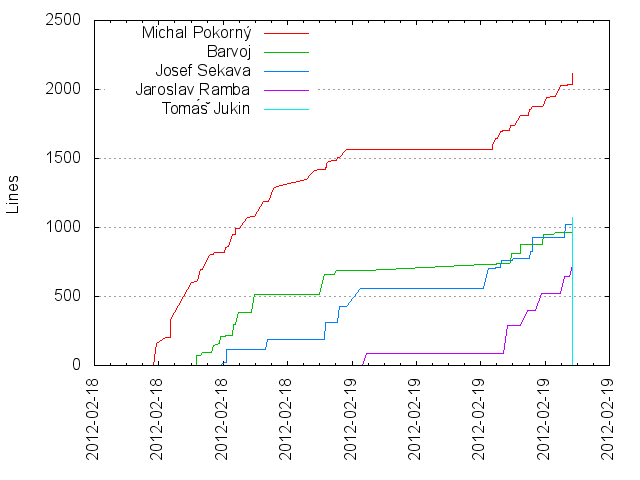
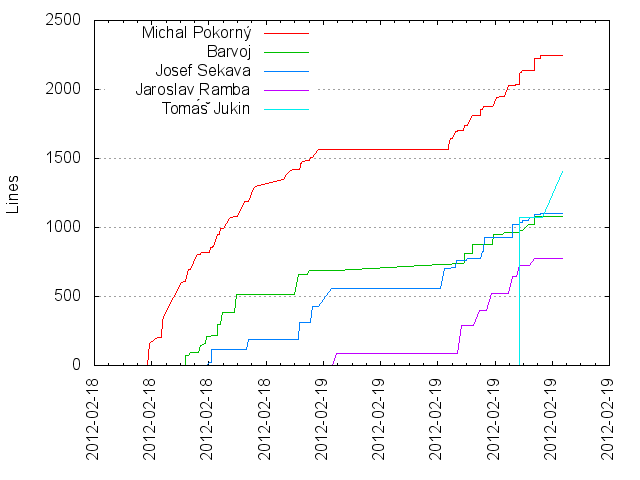
Generated git repository statistics

diff --git a/GADCPrague_stats/activity.html b/GADCPrague_stats/activity.html
@@ -4,7 +4,7 @@
 <head>
 	<title>GitStats - DoIKnowYou</title>
 	<link rel="stylesheet" href="gitstats.css" type="text/css" />
-	<meta name="generator" content="GitStats 648edf0" />
+	<meta name="generator" content="GitStats f08863a" />
 	<script type="text/javascript" src="sortable.js"></script>
 </head>
 <body>
@@ -22,27 +22,27 @@
 
 <h2><a href="#weekly_activity" name="weekly_activity">Weekly activity</a></h2>
 
-<p>Last 32 weeks</p><table class="noborders"><tr><td style="text-align: center; vertical-align: bottom">0<div style="display: block; background-color: red; width: 20px; height: 1px"></div></td><td style="text-align: center; vertical-align: bottom">0<div style="display: block; background-color: red; width: 20px; height: 1px"></div></td><td style="text-align: center; vertical-align: bottom">0<div style="display: block; background-color: red; width: 20px; height: 1px"></div></td><td style="text-align: center; vertical-align: bottom">0<div style="display: block; background-color: red; width: 20px; height: 1px"></div></td><td style="text-align: center; vertical-align: bottom">0<div style="display: block; background-color: red; width: 20px; height: 1px"></div></td><td style="text-align: center; vertical-align: bottom">0<div style="display: block; background-color: red; width: 20px; height: 1px"></div></td><td style="text-align: center; vertical-align: bottom">0<div style="display: block; background-color: red; width: 20px; height: 1px"></div></td><td style="text-align: center; vertical-align: bottom">0<div style="display: block; background-color: red; width: 20px; height: 1px"></div></td><td style="text-align: center; vertical-align: bottom">0<div style="display: block; background-color: red; width: 20px; height: 1px"></div></td><td style="text-align: center; vertical-align: bottom">0<div style="display: block; background-color: red; width: 20px; height: 1px"></div></td><td style="text-align: center; vertical-align: bottom">0<div style="display: block; background-color: red; width: 20px; height: 1px"></div></td><td style="text-align: center; vertical-align: bottom">0<div style="display: block; background-color: red; width: 20px; height: 1px"></div></td><td style="text-align: center; vertical-align: bottom">0<div style="display: block; background-color: red; width: 20px; height: 1px"></div></td><td style="text-align: center; vertical-align: bottom">0<div style="display: block; background-color: red; width: 20px; height: 1px"></div></td><td style="text-align: center; vertical-align: bottom">0<div style="display: block; background-color: red; width: 20px; height: 1px"></div></td><td style="text-align: center; vertical-align: bottom">0<div style="display: block; background-color: red; width: 20px; height: 1px"></div></td><td style="text-align: center; vertical-align: bottom">0<div style="display: block; background-color: red; width: 20px; height: 1px"></div></td><td style="text-align: center; vertical-align: bottom">0<div style="display: block; background-color: red; width: 20px; height: 1px"></div></td><td style="text-align: center; vertical-align: bottom">0<div style="display: block; background-color: red; width: 20px; height: 1px"></div></td><td style="text-align: center; vertical-align: bottom">0<div style="display: block; background-color: red; width: 20px; height: 1px"></div></td><td style="text-align: center; vertical-align: bottom">0<div style="display: block; background-color: red; width: 20px; height: 1px"></div></td><td style="text-align: center; vertical-align: bottom">0<div style="display: block; background-color: red; width: 20px; height: 1px"></div></td><td style="text-align: center; vertical-align: bottom">0<div style="display: block; background-color: red; width: 20px; height: 1px"></div></td><td style="text-align: center; vertical-align: bottom">0<div style="display: block; background-color: red; width: 20px; height: 1px"></div></td><td style="text-align: center; vertical-align: bottom">0<div style="display: block; background-color: red; width: 20px; height: 1px"></div></td><td style="text-align: center; vertical-align: bottom">0<div style="display: block; background-color: red; width: 20px; height: 1px"></div></td><td style="text-align: center; vertical-align: bottom">0<div style="display: block; background-color: red; width: 20px; height: 1px"></div></td><td style="text-align: center; vertical-align: bottom">0<div style="display: block; background-color: red; width: 20px; height: 1px"></div></td><td style="text-align: center; vertical-align: bottom">0<div style="display: block; background-color: red; width: 20px; height: 1px"></div></td><td style="text-align: center; vertical-align: bottom">0<div style="display: block; background-color: red; width: 20px; height: 1px"></div></td><td style="text-align: center; vertical-align: bottom">0<div style="display: block; background-color: red; width: 20px; height: 1px"></div></td><td style="text-align: center; vertical-align: bottom">171<div style="display: block; background-color: red; width: 20px; height: 200px"></div></td></tr><tr><td>32</td><td>31</td><td>30</td><td>29</td><td>28</td><td>27</td><td>26</td><td>25</td><td>24</td><td>23</td><td>22</td><td>21</td><td>20</td><td>19</td><td>18</td><td>17</td><td>16</td><td>15</td><td>14</td><td>13</td><td>12</td><td>11</td><td>10</td><td>9</td><td>8</td><td>7</td><td>6</td><td>5</td><td>4</td><td>3</td><td>2</td><td>1</td></tr></table>
+<p>Last 32 weeks</p><table class="noborders"><tr><td style="text-align: center; vertical-align: bottom">0<div style="display: block; background-color: red; width: 20px; height: 1px"></div></td><td style="text-align: center; vertical-align: bottom">0<div style="display: block; background-color: red; width: 20px; height: 1px"></div></td><td style="text-align: center; vertical-align: bottom">0<div style="display: block; background-color: red; width: 20px; height: 1px"></div></td><td style="text-align: center; vertical-align: bottom">0<div style="display: block; background-color: red; width: 20px; height: 1px"></div></td><td style="text-align: center; vertical-align: bottom">0<div style="display: block; background-color: red; width: 20px; height: 1px"></div></td><td style="text-align: center; vertical-align: bottom">0<div style="display: block; background-color: red; width: 20px; height: 1px"></div></td><td style="text-align: center; vertical-align: bottom">0<div style="display: block; background-color: red; width: 20px; height: 1px"></div></td><td style="text-align: center; vertical-align: bottom">0<div style="display: block; background-color: red; width: 20px; height: 1px"></div></td><td style="text-align: center; vertical-align: bottom">0<div style="display: block; background-color: red; width: 20px; height: 1px"></div></td><td style="text-align: center; vertical-align: bottom">0<div style="display: block; background-color: red; width: 20px; height: 1px"></div></td><td style="text-align: center; vertical-align: bottom">0<div style="display: block; background-color: red; width: 20px; height: 1px"></div></td><td style="text-align: center; vertical-align: bottom">0<div style="display: block; background-color: red; width: 20px; height: 1px"></div></td><td style="text-align: center; vertical-align: bottom">0<div style="display: block; background-color: red; width: 20px; height: 1px"></div></td><td style="text-align: center; vertical-align: bottom">0<div style="display: block; background-color: red; width: 20px; height: 1px"></div></td><td style="text-align: center; vertical-align: bottom">0<div style="display: block; background-color: red; width: 20px; height: 1px"></div></td><td style="text-align: center; vertical-align: bottom">0<div style="display: block; background-color: red; width: 20px; height: 1px"></div></td><td style="text-align: center; vertical-align: bottom">0<div style="display: block; background-color: red; width: 20px; height: 1px"></div></td><td style="text-align: center; vertical-align: bottom">0<div style="display: block; background-color: red; width: 20px; height: 1px"></div></td><td style="text-align: center; vertical-align: bottom">0<div style="display: block; background-color: red; width: 20px; height: 1px"></div></td><td style="text-align: center; vertical-align: bottom">0<div style="display: block; background-color: red; width: 20px; height: 1px"></div></td><td style="text-align: center; vertical-align: bottom">0<div style="display: block; background-color: red; width: 20px; height: 1px"></div></td><td style="text-align: center; vertical-align: bottom">0<div style="display: block; background-color: red; width: 20px; height: 1px"></div></td><td style="text-align: center; vertical-align: bottom">0<div style="display: block; background-color: red; width: 20px; height: 1px"></div></td><td style="text-align: center; vertical-align: bottom">0<div style="display: block; background-color: red; width: 20px; height: 1px"></div></td><td style="text-align: center; vertical-align: bottom">0<div style="display: block; background-color: red; width: 20px; height: 1px"></div></td><td style="text-align: center; vertical-align: bottom">0<div style="display: block; background-color: red; width: 20px; height: 1px"></div></td><td style="text-align: center; vertical-align: bottom">0<div style="display: block; background-color: red; width: 20px; height: 1px"></div></td><td style="text-align: center; vertical-align: bottom">0<div style="display: block; background-color: red; width: 20px; height: 1px"></div></td><td style="text-align: center; vertical-align: bottom">0<div style="display: block; background-color: red; width: 20px; height: 1px"></div></td><td style="text-align: center; vertical-align: bottom">0<div style="display: block; background-color: red; width: 20px; height: 1px"></div></td><td style="text-align: center; vertical-align: bottom">0<div style="display: block; background-color: red; width: 20px; height: 1px"></div></td><td style="text-align: center; vertical-align: bottom">203<div style="display: block; background-color: red; width: 20px; height: 200px"></div></td></tr><tr><td>32</td><td>31</td><td>30</td><td>29</td><td>28</td><td>27</td><td>26</td><td>25</td><td>24</td><td>23</td><td>22</td><td>21</td><td>20</td><td>19</td><td>18</td><td>17</td><td>16</td><td>15</td><td>14</td><td>13</td><td>12</td><td>11</td><td>10</td><td>9</td><td>8</td><td>7</td><td>6</td><td>5</td><td>4</td><td>3</td><td>2</td><td>1</td></tr></table>
 <h2><a href="#hour_of_day" name="hour_of_day">Hour of Day</a></h2>
 
 <table><tr><th>Hour</th><th>0</th><th>1</th><th>2</th><th>3</th><th>4</th><th>5</th><th>6</th><th>7</th><th>8</th><th>9</th><th>10</th><th>11</th><th>12</th><th>13</th><th>14</th><th>15</th><th>16</th><th>17</th><th>18</th><th>19</th><th>20</th><th>21</th><th>22</th><th>23</th></tr>
-<tr><th>Commits</th><td style="background-color: rgb(159, 0, 0)">6</td><td style="background-color: rgb(143, 0, 0)">3</td><td>0</td><td>0</td><td>0</td><td>0</td><td>0</td><td>0</td><td>0</td><td style="background-color: rgb(180, 0, 0)">10</td><td style="background-color: rgb(239, 0, 0)">21</td><td style="background-color: rgb(185, 0, 0)">11</td><td style="background-color: rgb(212, 0, 0)">16</td><td style="background-color: rgb(185, 0, 0)">11</td><td style="background-color: rgb(255, 0, 0)">24</td><td style="background-color: rgb(191, 0, 0)">12</td><td style="background-color: rgb(169, 0, 0)">8</td><td style="background-color: rgb(228, 0, 0)">19</td><td style="background-color: rgb(164, 0, 0)">7</td><td style="background-color: rgb(148, 0, 0)">4</td><td style="background-color: rgb(143, 0, 0)">3</td><td>0</td><td style="background-color: rgb(148, 0, 0)">4</td><td style="background-color: rgb(191, 0, 0)">12</td></tr>
-<tr><th>%</th><td style="background-color: rgb(159, 0, 0)">3.51</td><td style="background-color: rgb(143, 0, 0)">1.75</td><td>0.00</td><td>0.00</td><td>0.00</td><td>0.00</td><td>0.00</td><td>0.00</td><td>0.00</td><td style="background-color: rgb(180, 0, 0)">5.85</td><td style="background-color: rgb(239, 0, 0)">12.28</td><td style="background-color: rgb(185, 0, 0)">6.43</td><td style="background-color: rgb(212, 0, 0)">9.36</td><td style="background-color: rgb(185, 0, 0)">6.43</td><td style="background-color: rgb(255, 0, 0)">14.04</td><td style="background-color: rgb(191, 0, 0)">7.02</td><td style="background-color: rgb(169, 0, 0)">4.68</td><td style="background-color: rgb(228, 0, 0)">11.11</td><td style="background-color: rgb(164, 0, 0)">4.09</td><td style="background-color: rgb(148, 0, 0)">2.34</td><td style="background-color: rgb(143, 0, 0)">1.75</td><td>0.00</td><td style="background-color: rgb(148, 0, 0)">2.34</td><td style="background-color: rgb(191, 0, 0)">7.02</td></tr></table><img src="hour_of_day.png" alt="Hour of Day" />
+<tr><th>Commits</th><td style="background-color: rgb(151, 0, 0)">6</td><td style="background-color: rgb(139, 0, 0)">3</td><td>0</td><td>0</td><td>0</td><td>0</td><td>0</td><td>0</td><td>0</td><td style="background-color: rgb(168, 0, 0)">10</td><td style="background-color: rgb(213, 0, 0)">21</td><td style="background-color: rgb(172, 0, 0)">11</td><td style="background-color: rgb(193, 0, 0)">16</td><td style="background-color: rgb(172, 0, 0)">11</td><td style="background-color: rgb(246, 0, 0)">29</td><td style="background-color: rgb(255, 0, 0)">31</td><td style="background-color: rgb(180, 0, 0)">13</td><td style="background-color: rgb(217, 0, 0)">22</td><td style="background-color: rgb(155, 0, 0)">7</td><td style="background-color: rgb(143, 0, 0)">4</td><td style="background-color: rgb(139, 0, 0)">3</td><td>0</td><td style="background-color: rgb(143, 0, 0)">4</td><td style="background-color: rgb(176, 0, 0)">12</td></tr>
+<tr><th>%</th><td style="background-color: rgb(151, 0, 0)">2.96</td><td style="background-color: rgb(139, 0, 0)">1.48</td><td>0.00</td><td>0.00</td><td>0.00</td><td>0.00</td><td>0.00</td><td>0.00</td><td>0.00</td><td style="background-color: rgb(168, 0, 0)">4.93</td><td style="background-color: rgb(213, 0, 0)">10.34</td><td style="background-color: rgb(172, 0, 0)">5.42</td><td style="background-color: rgb(193, 0, 0)">7.88</td><td style="background-color: rgb(172, 0, 0)">5.42</td><td style="background-color: rgb(246, 0, 0)">14.29</td><td style="background-color: rgb(255, 0, 0)">15.27</td><td style="background-color: rgb(180, 0, 0)">6.40</td><td style="background-color: rgb(217, 0, 0)">10.84</td><td style="background-color: rgb(155, 0, 0)">3.45</td><td style="background-color: rgb(143, 0, 0)">1.97</td><td style="background-color: rgb(139, 0, 0)">1.48</td><td>0.00</td><td style="background-color: rgb(143, 0, 0)">1.97</td><td style="background-color: rgb(176, 0, 0)">5.91</td></tr></table><img src="hour_of_day.png" alt="Hour of Day" />
 <h2><a href="#day_of_week" name="day_of_week">Day of Week</a></h2>
 
-<div class="vtable"><table><tr><th>Day</th><th>Total (%)</th></tr><tr><th>Mon</th><td>0</td></tr><tr><th>Tue</th><td>0</td></tr><tr><th>Wed</th><td>0</td></tr><tr><th>Thu</th><td>0</td></tr><tr><th>Fri</th><td>0</td></tr><tr><th>Sat</th><td>76 (44.44%)</td></tr><tr><th>Sun</th><td>95 (55.56%)</td></tr></table></div><img src="day_of_week.png" alt="Day of Week" />
+<div class="vtable"><table><tr><th>Day</th><th>Total (%)</th></tr><tr><th>Mon</th><td>0</td></tr><tr><th>Tue</th><td>0</td></tr><tr><th>Wed</th><td>0</td></tr><tr><th>Thu</th><td>0</td></tr><tr><th>Fri</th><td>0</td></tr><tr><th>Sat</th><td>76 (37.44%)</td></tr><tr><th>Sun</th><td>127 (62.56%)</td></tr></table></div><img src="day_of_week.png" alt="Day of Week" />
 <h2><a href="#hour_of_week" name="hour_of_week">Hour of Week</a></h2>
 
-<table><tr><th>Weekday</th><th>0</th><th>1</th><th>2</th><th>3</th><th>4</th><th>5</th><th>6</th><th>7</th><th>8</th><th>9</th><th>10</th><th>11</th><th>12</th><th>13</th><th>14</th><th>15</th><th>16</th><th>17</th><th>18</th><th>19</th><th>20</th><th>21</th><th>22</th><th>23</th></tr><tr><th>Mon</th><td></td><td></td><td></td><td></td><td></td><td></td><td></td><td></td><td></td><td></td><td></td><td></td><td></td><td></td><td></td><td></td><td></td><td></td><td></td><td></td><td></td><td></td><td></td><td></td></tr><tr><th>Tue</th><td></td><td></td><td></td><td></td><td></td><td></td><td></td><td></td><td></td><td></td><td></td><td></td><td></td><td></td><td></td><td></td><td></td><td></td><td></td><td></td><td></td><td></td><td></td><td></td></tr><tr><th>Wed</th><td></td><td></td><td></td><td></td><td></td><td></td><td></td><td></td><td></td><td></td><td></td><td></td><td></td><td></td><td></td><td></td><td></td><td></td><td></td><td></td><td></td><td></td><td></td><td></td></tr><tr><th>Thu</th><td></td><td></td><td></td><td></td><td></td><td></td><td></td><td></td><td></td><td></td><td></td><td></td><td></td><td></td><td></td><td></td><td></td><td></td><td></td><td></td><td></td><td></td><td></td><td></td></tr><tr><th>Fri</th><td></td><td></td><td></td><td></td><td></td><td></td><td></td><td></td><td></td><td></td><td></td><td></td><td></td><td></td><td></td><td></td><td></td><td></td><td></td><td></td><td></td><td></td><td></td><td></td></tr><tr><th>Sat</th><td></td><td></td><td></td><td></td><td></td><td></td><td></td><td></td><td></td><td></td><td></td><td></td><td style="background-color: rgb(137, 0, 0)">2</td><td style="background-color: rgb(153, 0, 0)">5</td><td></td><td style="background-color: rgb(191, 0, 0)">12</td><td style="background-color: rgb(169, 0, 0)">8</td><td style="background-color: rgb(228, 0, 0)">19</td><td style="background-color: rgb(164, 0, 0)">7</td><td style="background-color: rgb(148, 0, 0)">4</td><td style="background-color: rgb(143, 0, 0)">3</td><td></td><td style="background-color: rgb(148, 0, 0)">4</td><td style="background-color: rgb(191, 0, 0)">12</td></tr><tr><th>Sun</th><td style="background-color: rgb(159, 0, 0)">6</td><td style="background-color: rgb(143, 0, 0)">3</td><td></td><td></td><td></td><td></td><td></td><td></td><td></td><td style="background-color: rgb(180, 0, 0)">10</td><td style="background-color: rgb(239, 0, 0)">21</td><td style="background-color: rgb(185, 0, 0)">11</td><td style="background-color: rgb(201, 0, 0)">14</td><td style="background-color: rgb(159, 0, 0)">6</td><td style="background-color: rgb(255, 0, 0)">24</td><td></td><td></td><td></td><td></td><td></td><td></td><td></td><td></td><td></td></tr></table>
+<table><tr><th>Weekday</th><th>0</th><th>1</th><th>2</th><th>3</th><th>4</th><th>5</th><th>6</th><th>7</th><th>8</th><th>9</th><th>10</th><th>11</th><th>12</th><th>13</th><th>14</th><th>15</th><th>16</th><th>17</th><th>18</th><th>19</th><th>20</th><th>21</th><th>22</th><th>23</th></tr><tr><th>Mon</th><td></td><td></td><td></td><td></td><td></td><td></td><td></td><td></td><td></td><td></td><td></td><td></td><td></td><td></td><td></td><td></td><td></td><td></td><td></td><td></td><td></td><td></td><td></td><td></td></tr><tr><th>Tue</th><td></td><td></td><td></td><td></td><td></td><td></td><td></td><td></td><td></td><td></td><td></td><td></td><td></td><td></td><td></td><td></td><td></td><td></td><td></td><td></td><td></td><td></td><td></td><td></td></tr><tr><th>Wed</th><td></td><td></td><td></td><td></td><td></td><td></td><td></td><td></td><td></td><td></td><td></td><td></td><td></td><td></td><td></td><td></td><td></td><td></td><td></td><td></td><td></td><td></td><td></td><td></td></tr><tr><th>Thu</th><td></td><td></td><td></td><td></td><td></td><td></td><td></td><td></td><td></td><td></td><td></td><td></td><td></td><td></td><td></td><td></td><td></td><td></td><td></td><td></td><td></td><td></td><td></td><td></td></tr><tr><th>Fri</th><td></td><td></td><td></td><td></td><td></td><td></td><td></td><td></td><td></td><td></td><td></td><td></td><td></td><td></td><td></td><td></td><td></td><td></td><td></td><td></td><td></td><td></td><td></td><td></td></tr><tr><th>Sat</th><td></td><td></td><td></td><td></td><td></td><td></td><td></td><td></td><td></td><td></td><td></td><td></td><td style="background-color: rgb(135, 0, 0)">2</td><td style="background-color: rgb(149, 0, 0)">5</td><td></td><td style="background-color: rgb(179, 0, 0)">12</td><td style="background-color: rgb(162, 0, 0)">8</td><td style="background-color: rgb(210, 0, 0)">19</td><td style="background-color: rgb(157, 0, 0)">7</td><td style="background-color: rgb(144, 0, 0)">4</td><td style="background-color: rgb(140, 0, 0)">3</td><td></td><td style="background-color: rgb(144, 0, 0)">4</td><td style="background-color: rgb(179, 0, 0)">12</td></tr><tr><th>Sun</th><td style="background-color: rgb(153, 0, 0)">6</td><td style="background-color: rgb(140, 0, 0)">3</td><td></td><td></td><td></td><td></td><td></td><td></td><td></td><td style="background-color: rgb(171, 0, 0)">10</td><td style="background-color: rgb(219, 0, 0)">21</td><td style="background-color: rgb(175, 0, 0)">11</td><td style="background-color: rgb(188, 0, 0)">14</td><td style="background-color: rgb(153, 0, 0)">6</td><td style="background-color: rgb(255, 0, 0)">29</td><td style="background-color: rgb(210, 0, 0)">19</td><td style="background-color: rgb(149, 0, 0)">5</td><td style="background-color: rgb(140, 0, 0)">3</td><td></td><td></td><td></td><td></td><td></td><td></td></tr></table>
 <h2><a href="#month_of_year" name="month_of_year">Month of Year</a></h2>
 
-<div class="vtable"><table><tr><th>Month</th><th>Commits (%)</th></tr><tr><td>1</td><td>0 (0.00 %)</td></tr><tr><td>2</td><td>171 (100.00 %)</td></tr><tr><td>3</td><td>0 (0.00 %)</td></tr><tr><td>4</td><td>0 (0.00 %)</td></tr><tr><td>5</td><td>0 (0.00 %)</td></tr><tr><td>6</td><td>0 (0.00 %)</td></tr><tr><td>7</td><td>0 (0.00 %)</td></tr><tr><td>8</td><td>0 (0.00 %)</td></tr><tr><td>9</td><td>0 (0.00 %)</td></tr><tr><td>10</td><td>0 (0.00 %)</td></tr><tr><td>11</td><td>0 (0.00 %)</td></tr><tr><td>12</td><td>0 (0.00 %)</td></tr></table></div><img src="month_of_year.png" alt="Month of Year" />
+<div class="vtable"><table><tr><th>Month</th><th>Commits (%)</th></tr><tr><td>1</td><td>0 (0.00 %)</td></tr><tr><td>2</td><td>203 (100.00 %)</td></tr><tr><td>3</td><td>0 (0.00 %)</td></tr><tr><td>4</td><td>0 (0.00 %)</td></tr><tr><td>5</td><td>0 (0.00 %)</td></tr><tr><td>6</td><td>0 (0.00 %)</td></tr><tr><td>7</td><td>0 (0.00 %)</td></tr><tr><td>8</td><td>0 (0.00 %)</td></tr><tr><td>9</td><td>0 (0.00 %)</td></tr><tr><td>10</td><td>0 (0.00 %)</td></tr><tr><td>11</td><td>0 (0.00 %)</td></tr><tr><td>12</td><td>0 (0.00 %)</td></tr></table></div><img src="month_of_year.png" alt="Month of Year" />
 <h2><a href="#commits_by_year/month" name="commits_by_year/month">Commits by year/month</a></h2>
 
-<div class="vtable"><table><tr><th>Month</th><th>Commits</th><th>Lines added</th><th>Lines removed</th></tr><tr><td>2012-02</td><td>171</td><td>5115</td><td>1290</td></tr></table></div><img src="commits_by_year_month.png" alt="Commits by year/month" />
+<div class="vtable"><table><tr><th>Month</th><th>Commits</th><th>Lines added</th><th>Lines removed</th></tr><tr><td>2012-02</td><td>203</td><td>5750</td><td>1607</td></tr></table></div><img src="commits_by_year_month.png" alt="Commits by year/month" />
 <h2><a href="#commits_by_year" name="commits_by_year">Commits by Year</a></h2>
 
-<div class="vtable"><table><tr><th>Year</th><th>Commits (% of all)</th><th>Lines added</th><th>Lines removed</th></tr><tr><td>2012</td><td>171 (100.00%)</td><td>5115</td><td>1290</td></tr></table></div><img src="commits_by_year.png" alt="Commits by Year" />
+<div class="vtable"><table><tr><th>Year</th><th>Commits (% of all)</th><th>Lines added</th><th>Lines removed</th></tr><tr><td>2012</td><td>203 (100.00%)</td><td>5750</td><td>1607</td></tr></table></div><img src="commits_by_year.png" alt="Commits by Year" />
 <h2><a href="#commits_by_timezone" name="commits_by_timezone">Commits by Timezone</a></h2>
 
-<table><tr><th>Timezone</th><th>Commits</th><tr><th>+0100</th><td style="background-color: rgb(255, 0, 0)">171</td></tr></tr></table></body></html>
+<table><tr><th>Timezone</th><th>Commits</th><tr><th>+0100</th><td style="background-color: rgb(255, 0, 0)">203</td></tr></tr></table></body></html>

diff --git a/GADCPrague_stats/authors.html b/GADCPrague_stats/authors.html
@@ -4,7 +4,7 @@
 <head>
 	<title>GitStats - DoIKnowYou</title>
 	<link rel="stylesheet" href="gitstats.css" type="text/css" />
-	<meta name="generator" content="GitStats 648edf0" />
+	<meta name="generator" content="GitStats f08863a" />
 	<script type="text/javascript" src="sortable.js"></script>
 </head>
 <body>
@@ -22,7 +22,7 @@
 
 <h2><a href="#list_of_authors" name="list_of_authors">List of Authors</a></h2>
 
-<table class="authors sortable" id="authors"><tr><th>Author</th><th>Commits (%)</th><th>+ lines</th><th>- lines</th><th>First commit</th><th>Last commit</th><th class="unsortable">Age</th><th>Active days</th><th># by commits</th></tr><tr><td>Michal Pokorný</td><td>72 (42.11%)</td><td>2119</td><td>746</td><td>2012-02-18</td><td>2012-02-19</td><td>1 day, 1:44:39</td><td>2</td><td>1</td></tr><tr><td>Barvoj</td><td>45 (26.32%)</td><td>979</td><td>402</td><td>2012-02-18</td><td>2012-02-19</td><td>1 day, 0:44:39</td><td>2</td><td>2</td></tr><tr><td>Josef Sekava</td><td>30 (17.54%)</td><td>1035</td><td>665</td><td>2012-02-18</td><td>2012-02-19</td><td>21:25:15</td><td>2</td><td>3</td></tr><tr><td>Jaroslav Ramba</td><td>20 (11.70%)</td><td>723</td><td>467</td><td>2012-02-19</td><td>2012-02-19</td><td>12:47:00</td><td>1</td><td>4</td></tr><tr><td>Tomáš Jukin</td><td>4 (2.34%)</td><td>1074</td><td>0</td><td>2012-02-19</td><td>2012-02-19</td><td>0:13:26</td><td>1</td><td>5</td></tr></table>
+<table class="authors sortable" id="authors"><tr><th>Author</th><th>Commits (%)</th><th>+ lines</th><th>- lines</th><th>First commit</th><th>Last commit</th><th class="unsortable">Age</th><th>Active days</th><th># by commits</th></tr><tr><td>Michal Pokorný</td><td>81 (39.90%)</td><td>2244</td><td>797</td><td>2012-02-18</td><td>2012-02-19</td><td>1 day, 3:17:53</td><td>2</td><td>1</td></tr><tr><td>Barvoj</td><td>50 (24.63%)</td><td>1082</td><td>419</td><td>2012-02-18</td><td>2012-02-19</td><td>1 day, 2:22:33</td><td>2</td><td>2</td></tr><tr><td>Josef Sekava</td><td>38 (18.72%)</td><td>1100</td><td>713</td><td>2012-02-18</td><td>2012-02-19</td><td>22:48:06</td><td>2</td><td>3</td></tr><tr><td>Jaroslav Ramba</td><td>27 (13.30%)</td><td>778</td><td>490</td><td>2012-02-19</td><td>2012-02-19</td><td>14:24:34</td><td>1</td><td>4</td></tr><tr><td>Tomáš Jukin</td><td>7 (3.45%)</td><td>1409</td><td>223</td><td>2012-02-19</td><td>2012-02-19</td><td>3:20:50</td><td>1</td><td>5</td></tr></table>
 <h2><a href="#cumulated_added_lines_of_code_per_author" name="cumulated_added_lines_of_code_per_author">Cumulated Added Lines of Code per Author</a></h2>
 
 <img src="lines_of_code_by_author.png" alt="Lines of code per Author" />
@@ -31,10 +31,10 @@
 <img src="commits_by_author.png" alt="Commits per Author" />
 <h2><a href="#author_of_month" name="author_of_month">Author of Month</a></h2>
 
-<table class="sortable" id="aom"><tr><th>Month</th><th>Author</th><th>Commits (%)</th><th class="unsortable">Next top 5</th><th>Number of authors</th></tr><tr><td>2012-02</td><td>Michal Pokorný</td><td>72 (42.11% of 171)</td><td>Barvoj, Josef Sekava, Jaroslav Ramba, Tomáš Jukin</td><td>5</td></tr></table>
+<table class="sortable" id="aom"><tr><th>Month</th><th>Author</th><th>Commits (%)</th><th class="unsortable">Next top 5</th><th>Number of authors</th></tr><tr><td>2012-02</td><td>Michal Pokorný</td><td>81 (39.90% of 203)</td><td>Barvoj, Josef Sekava, Jaroslav Ramba, Tomáš Jukin</td><td>5</td></tr></table>
 <h2><a href="#author_of_year" name="author_of_year">Author of Year</a></h2>
 
-<table class="sortable" id="aoy"><tr><th>Year</th><th>Author</th><th>Commits (%)</th><th class="unsortable">Next top 5</th><th>Number of authors</th></tr><tr><td>2012</td><td>Michal Pokorný</td><td>72 (42.11% of 171)</td><td>Barvoj, Josef Sekava, Jaroslav Ramba, Tomáš Jukin</td><td>5</td></tr></table>
+<table class="sortable" id="aoy"><tr><th>Year</th><th>Author</th><th>Commits (%)</th><th class="unsortable">Next top 5</th><th>Number of authors</th></tr><tr><td>2012</td><td>Michal Pokorný</td><td>81 (39.90% of 203)</td><td>Barvoj, Josef Sekava, Jaroslav Ramba, Tomáš Jukin</td><td>5</td></tr></table>
 <h2><a href="#commits_by_domains" name="commits_by_domains">Commits by Domains</a></h2>
 
-<div class="vtable"><table><tr><th>Domains</th><th>Total (%)</th></tr><tr><th>rny.cz</th><td>72 (42.11%)</td></tr><tr><th>seznam.cz</th><td>45 (26.32%)</td></tr><tr><th>joskaweb.cz</th><td>30 (17.54%)</td></tr><tr><th>ramba.cz</th><td>20 (11.70%)</td></tr><tr><th>jukin.cz</th><td>4 (2.34%)</td></tr></table></div><img src="domains.png" alt="Commits by Domains" /></body></html>
+<div class="vtable"><table><tr><th>Domains</th><th>Total (%)</th></tr><tr><th>rny.cz</th><td>81 (39.90%)</td></tr><tr><th>seznam.cz</th><td>50 (24.63%)</td></tr><tr><th>joskaweb.cz</th><td>38 (18.72%)</td></tr><tr><th>ramba.cz</th><td>27 (13.30%)</td></tr><tr><th>jukin.cz</th><td>7 (3.45%)</td></tr></table></div><img src="domains.png" alt="Commits by Domains" /></body></html>

diff --git a/GADCPrague_stats/files.html b/GADCPrague_stats/files.html
@@ -4,7 +4,7 @@
 <head>
 	<title>GitStats - DoIKnowYou</title>
 	<link rel="stylesheet" href="gitstats.css" type="text/css" />
-	<meta name="generator" content="GitStats 648edf0" />
+	<meta name="generator" content="GitStats f08863a" />
 	<script type="text/javascript" src="sortable.js"></script>
 </head>
 <body>
@@ -20,11 +20,11 @@
 </ul>
 </div>
 <dl>
-<dt>Total files</dt><dd>100</dd><dt>Total lines</dt><dd>3825</dd><dt>Average file size</dt><dd>9699.78 bytes</dd></dl>
+<dt>Total files</dt><dd>115</dd><dt>Total lines</dt><dd>4143</dd><dt>Average file size</dt><dd>3060.85 bytes</dd></dl>
 
 <h2><a href="#file_count_by_date" name="file_count_by_date">File count by date</a></h2>
 
 <img src="files_by_date.png" alt="Files by Date" />
 <h2><a href="#extensions" name="extensions">Extensions</a></h2>
 
-<table class="sortable" id="ext"><tr><th>Extension</th><th>Files (%)</th><th>Lines (%)</th><th>Lines/file</th></tr><tr><td></td><td>4 (4.00%)</td><td>51 (1.33%)</td><td>12</td></tr><tr><td>cache</td><td>1 (1.00%)</td><td>19 (0.50%)</td><td>19</td></tr><tr><td>cfg</td><td>1 (1.00%)</td><td>40 (1.05%)</td><td>40</td></tr><tr><td>css</td><td>1 (1.00%)</td><td>145 (3.79%)</td><td>145</td></tr><tr><td>dat</td><td>10 (10.00%)</td><td>297 (7.76%)</td><td>29</td></tr><tr><td>gif</td><td>3 (3.00%)</td><td>6 (0.16%)</td><td>2</td></tr><tr><td>html</td><td>6 (6.00%)</td><td>184 (4.81%)</td><td>30</td></tr><tr><td>java</td><td>15 (15.00%)</td><td>1867 (48.81%)</td><td>124</td></tr><tr><td>js</td><td>1 (1.00%)</td><td>324 (8.47%)</td><td>324</td></tr><tr><td>mp4</td><td>1 (1.00%)</td><td>3095 (80.92%)</td><td>3095</td></tr><tr><td>plot</td><td>10 (10.00%)</td><td>118 (3.08%)</td><td>11</td></tr><tr><td>png</td><td>28 (28.00%)</td><td>544 (14.22%)</td><td>19</td></tr><tr><td>prefs</td><td>1 (1.00%)</td><td>12 (0.31%)</td><td>12</td></tr><tr><td>properties</td><td>1 (1.00%)</td><td>11 (0.29%)</td><td>11</td></tr><tr><td>xml</td><td>17 (17.00%)</td><td>754 (19.71%)</td><td>44</td></tr></table></body></html>
+<table class="sortable" id="ext"><tr><th>Extension</th><th>Files (%)</th><th>Lines (%)</th><th>Lines/file</th></tr><tr><td></td><td>4 (3.48%)</td><td>51 (1.23%)</td><td>12</td></tr><tr><td>cache</td><td>1 (0.87%)</td><td>32 (0.77%)</td><td>32</td></tr><tr><td>cfg</td><td>1 (0.87%)</td><td>40 (0.97%)</td><td>40</td></tr><tr><td>css</td><td>1 (0.87%)</td><td>145 (3.50%)</td><td>145</td></tr><tr><td>dat</td><td>10 (8.70%)</td><td>409 (9.87%)</td><td>40</td></tr><tr><td>gif</td><td>3 (2.61%)</td><td>6 (0.14%)</td><td>2</td></tr><tr><td>html</td><td>6 (5.22%)</td><td>184 (4.44%)</td><td>30</td></tr><tr><td>java</td><td>16 (13.91%)</td><td>1904 (45.96%)</td><td>119</td></tr><tr><td>js</td><td>1 (0.87%)</td><td>324 (7.82%)</td><td>324</td></tr><tr><td>mp4</td><td>1 (0.87%)</td><td>0 (0.00%)</td><td>0</td></tr><tr><td>plot</td><td>10 (8.70%)</td><td>118 (2.85%)</td><td>11</td></tr><tr><td>png</td><td>40 (34.78%)</td><td>920 (22.21%)</td><td>23</td></tr><tr><td>prefs</td><td>1 (0.87%)</td><td>12 (0.29%)</td><td>12</td></tr><tr><td>properties</td><td>1 (0.87%)</td><td>11 (0.27%)</td><td>11</td></tr><tr><td>xml</td><td>19 (16.52%)</td><td>921 (22.23%)</td><td>48</td></tr></table></body></html>

diff --git a/GADCPrague_stats/index.html b/GADCPrague_stats/index.html
@@ -4,7 +4,7 @@
 <head>
 	<title>GitStats - DoIKnowYou</title>
 	<link rel="stylesheet" href="gitstats.css" type="text/css" />
-	<meta name="generator" content="GitStats 648edf0" />
+	<meta name="generator" content="GitStats f08863a" />
 	<script type="text/javascript" src="sortable.js"></script>
 </head>
 <body>
@@ -19,5 +19,5 @@
 <li><a href="tags.html">Tags</a></li>
 </ul>
 </div>
-<dl><dt>Project name</dt><dd>DoIKnowYou</dd><dt>Generated</dt><dd>2012-02-19 17:39:41 (in 10 seconds)</dd><dt>Generator</dt><dd><a href="http://gitstats.sourceforge.net/">GitStats</a> (version 648edf0), git version 1.7.1.1, gnuplot 4.4 patchlevel 4</dd><dt>Report Period</dt><dd>2012-02-18 12:41:03 to 2012-02-19 14:41:09</dd><dt>Age</dt><dd>2 days, 2 active days (100.00%)</dd><dt>Total Files</dt><dd>100</dd><dt>Total Lines of Code</dt><dd>3825 (5115 added, 1290 removed)</dd><dt>Total Commits</dt><dd>171 (average 85.5 commits per active day, 85.5 per all days)</dd><dt>Authors</dt><dd>5 (average 34.2 commits per author)</dd></dl></body>
+<dl><dt>Project name</dt><dd>DoIKnowYou</dd><dt>Generated</dt><dd>2012-02-19 17:47:42 (in 11 seconds)</dd><dt>Generator</dt><dd><a href="http://gitstats.sourceforge.net/">GitStats</a> (version f08863a), git version 1.7.1.1, gnuplot 4.4 patchlevel 4</dd><dt>Report Period</dt><dd>2012-02-18 12:41:03 to 2012-02-19 17:42:48</dd><dt>Age</dt><dd>2 days, 2 active days (100.00%)</dd><dt>Total Files</dt><dd>115</dd><dt>Total Lines of Code</dt><dd>4143 (5750 added, 1607 removed)</dd><dt>Total Commits</dt><dd>203 (average 101.5 commits per active day, 101.5 per all days)</dd><dt>Authors</dt><dd>5 (average 40.6 commits per author)</dd></dl></body>
 </html>

diff --git a/GADCPrague_stats/lines.html b/GADCPrague_stats/lines.html
@@ -4,7 +4,7 @@
 <head>
 	<title>GitStats - DoIKnowYou</title>
 	<link rel="stylesheet" href="gitstats.css" type="text/css" />
-	<meta name="generator" content="GitStats 648edf0" />
+	<meta name="generator" content="GitStats f08863a" />
 	<script type="text/javascript" src="sortable.js"></script>
 </head>
 <body>
@@ -20,7 +20,7 @@
 </ul>
 </div>
 <dl>
-<dt>Total lines</dt><dd>3825</dd></dl>
+<dt>Total lines</dt><dd>4143</dd></dl>
 
 <h2><a href="#lines_of_code" name="lines_of_code">Lines of Code</a></h2>
 

diff --git a/GADCPrague_stats/tags.html b/GADCPrague_stats/tags.html
@@ -4,7 +4,7 @@
 <head>
 	<title>GitStats - DoIKnowYou</title>
 	<link rel="stylesheet" href="gitstats.css" type="text/css" />
-	<meta name="generator" content="GitStats 648edf0" />
+	<meta name="generator" content="GitStats f08863a" />
 	<script type="text/javascript" src="sortable.js"></script>
 </head>
 <body>
